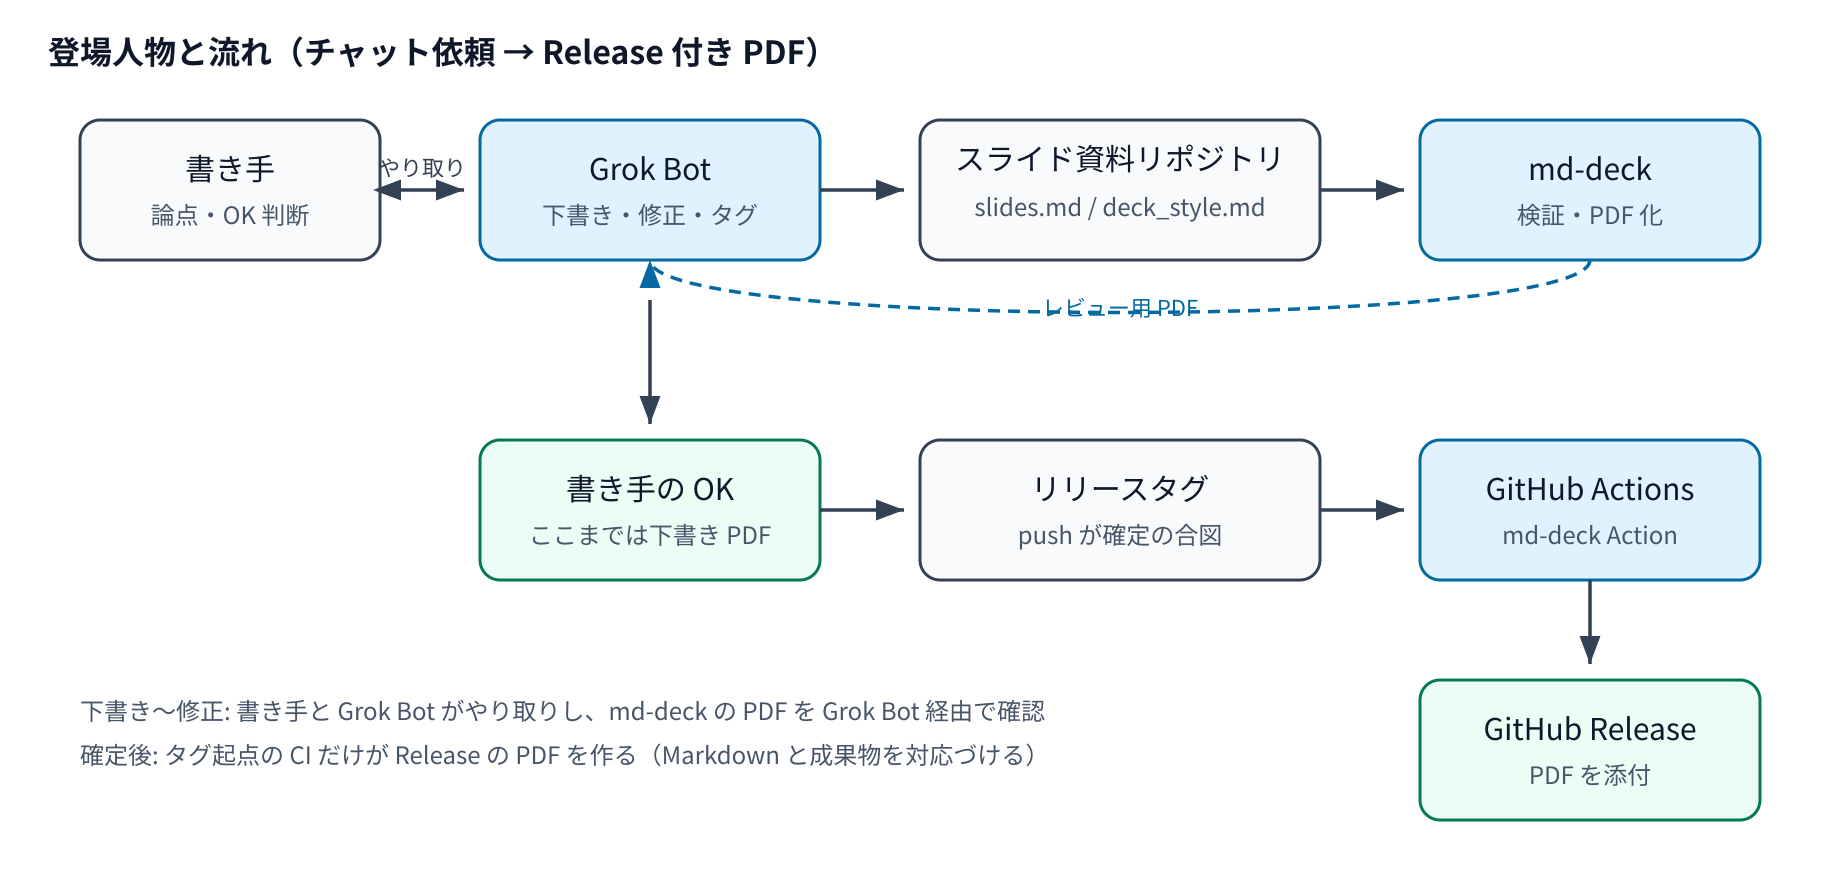
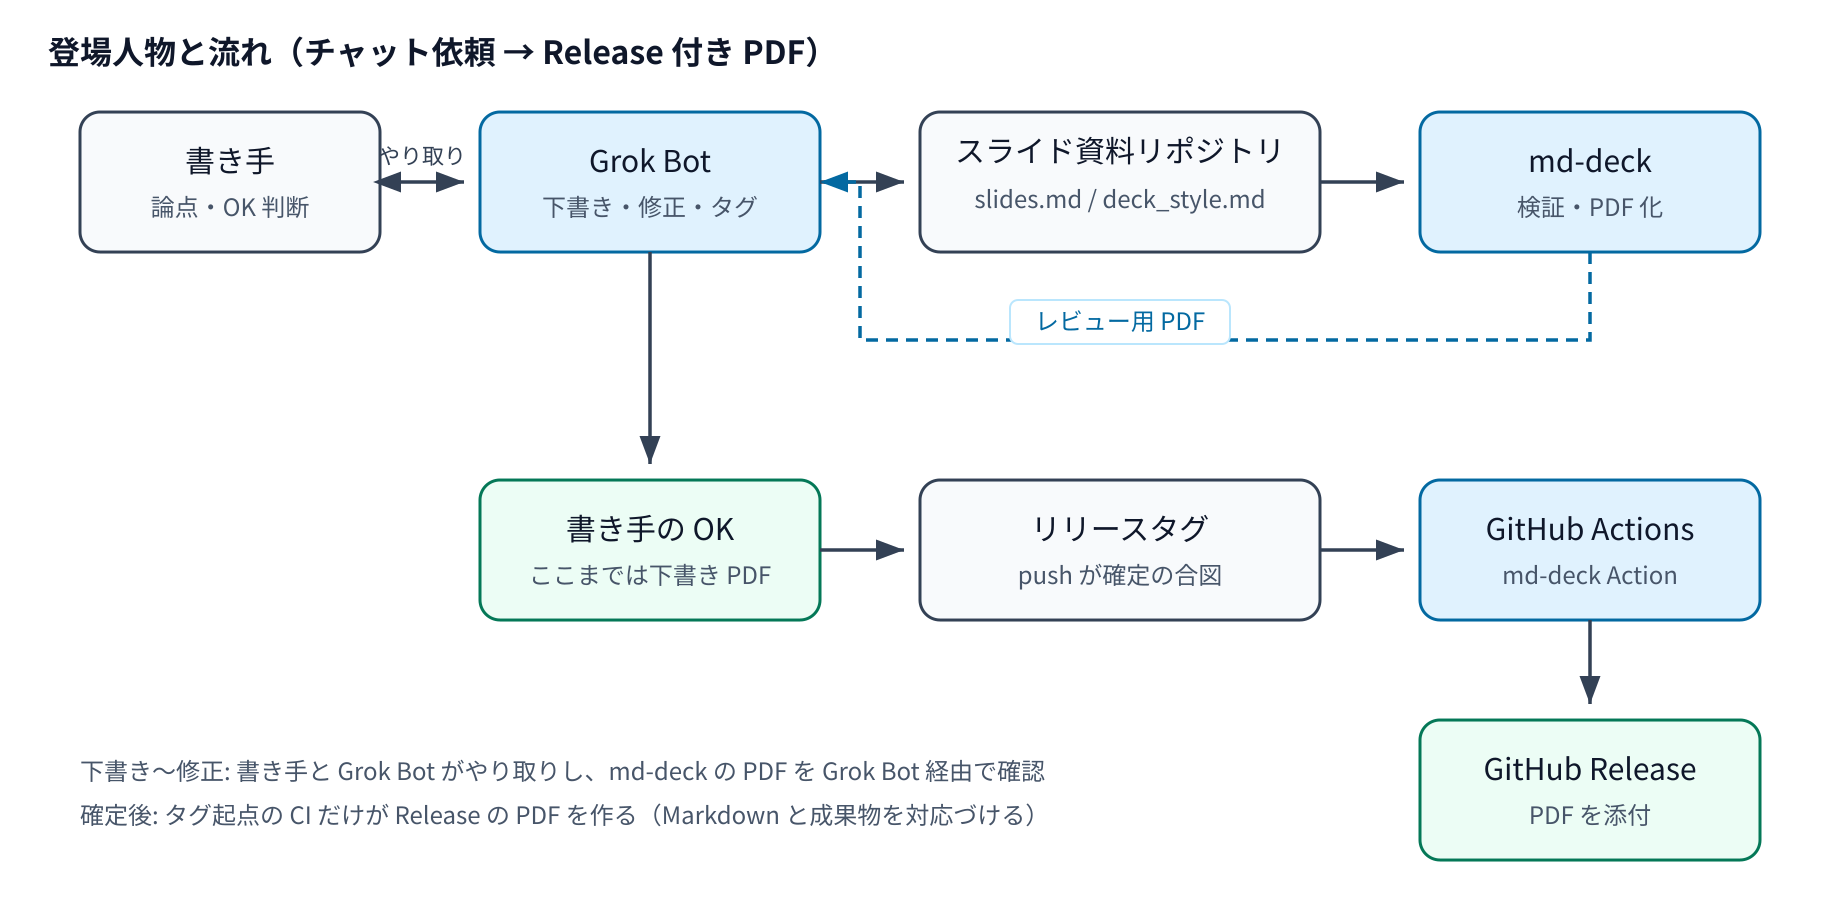
Replace the md-deck draft diagram with an orthogonal review return
Use the approved article and figures. The return from md-deck to Grok Bot is a dashed right-angle path labeled レビュー用 PDF on a white background, and the author exchange stays bidirectional.

diff --git a/articles/2026-10-25-md-deck-from-chat-to-release.md b/articles/2026-10-25-md-deck-from-chat-to-release.md
@@ -12,7 +12,7 @@ published: false
 
 ![登場人物と流れ。書き手⇔Grok Bot→スライド資料リポジトリ→md-deck、レビュー用PDFはGrok Botへ戻り、書き手のOK後にタグ→GitHub Actions→Release](/images/md-deck-flow.png)
 
-上段では書き手と Grok Bot がやり取りし、破線は md-deck が作ったレビュー用 PDF が Grok Bot に戻る経路です。下段が書き手の OK のあとに版を確定させて Release に PDF を載せる流れです。
+上段では書き手と Grok Bot がやり取りし、破線の折れ線は、md-deck が作ったレビュー用 PDF が Grok Bot に戻る経路です。下段が書き手の OK のあとに版を確定させて Release に PDF を載せる流れです。
 
 ## NotebookLM で作っていたときの二つの不満
 
